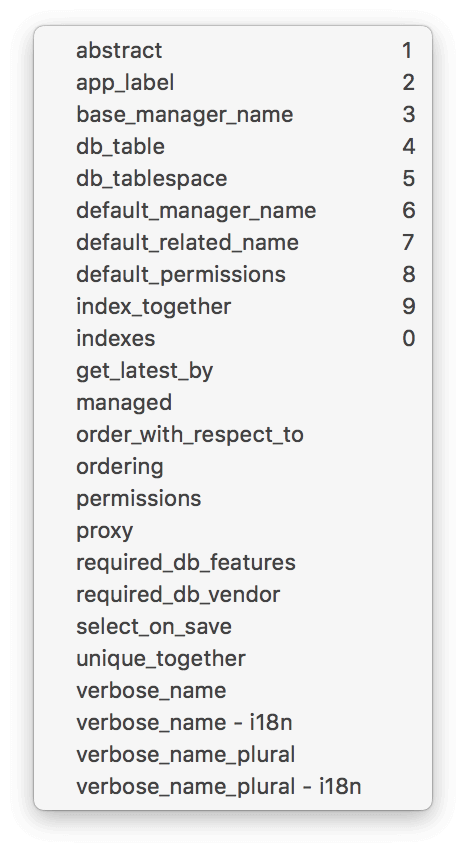
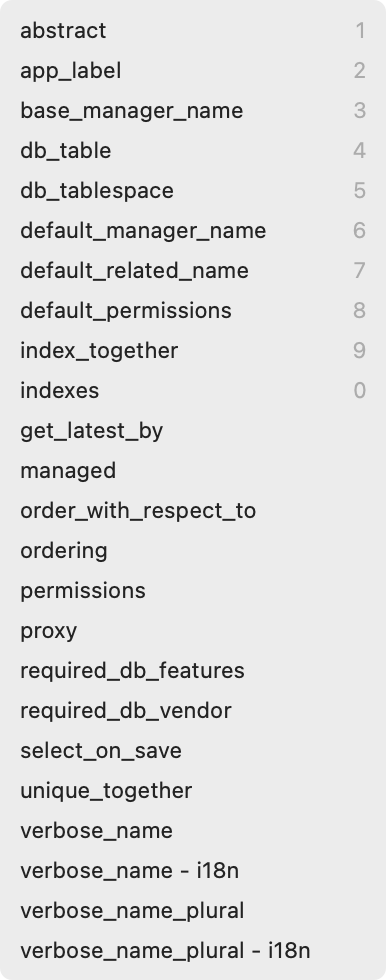
update screenshots, improve documentation

Changed region(s): [[0.0311, 0.0, 0.9016, 1.0], [0.8705, 0.0305, 0.9637, 0.4272]]

diff --git a/README.md b/README.md
@@ -14,7 +14,8 @@ git clone https://github.com/vigo/textmate2-power-tools.git PowerTools.tmbundle
 # Restart your TextMate2
 ```
 
-You need to install extra tools for **Golang** helper:
+You need to install extra tools for **Golang** helper. You need to enable
+default **Go Bundle** from TextMate first...
 
 ```bash
 $ go install golang.org/x/tools/cmd/goimports@latest
@@ -25,6 +26,12 @@ $ go install golang.org/x/tools/go/analysis/passes/shadow/cmd/shadow@latest
 $ go install honnef.co/go/tools/cmd/staticcheck@latest
 
 $ brew install golangci-lint
+```
+
+Shellcheck feature requires `shellcheck` binary;
+
+```bash
+$ brew install shellcheck
 ```
 
 You need to add your **brew/bin** path to `PATH` variable too:
@@ -56,7 +63,32 @@ Other bundle dependencies (*not required but nice to have*)
 
 ## Available Items
 
+1. [TextMate](#textMate-helpers)
+1. [Django](#django)
+1. [Python](#python)
+1. [Ruby](#ruby)
+1. [Rake](#rake)
+1. [Bash](#bash)
+1. [Markdown](#markdown)
+1. [jQuery](#jquery)
+1. [HTML](#html)
+1. [Javascript](#javascript)
+1. [Go](#go)
+1. [Swift](#swift)
+1. [Lisp](#lisp)
+1. [Elixir](#elixir)
+1. [Git](#git)
+1. [General](#general)
+1. [Templates](#templates)
+
+---
+
 ### TextMate Helpers
+
+Scopes:
+
+- `text.xml.plist`
+- `source.tm-properties`
 
 - `folder` + <kbd>⇥</kbd> : Add folder for `info.plist`
 - `-` + <kbd>⇥</kbd> : Add delimeter for `info.plist`
@@ -66,6 +98,8 @@ Other bundle dependencies (*not required but nice to have*)
    - spelling: `spellingLanguage`
 - "Show Environment Variables" for better, sorted and grouped env-var list
 
+---
+
 ### Django
 
 **Update**
@@ -73,25 +107,27 @@ Other bundle dependencies (*not required but nice to have*)
 - Improve Django snippets/helpers
 - Add Django REST generics and viewsets
 
-#### Snippets
+#### Django Snippets
 
-TAB completion | Description
----------------|:-----------
-`admin` + <kbd>⇥</kbd> | ![Screenshot of: admin](Screens/django-admin.png?2 "admin+TAB")
-`model` + <kbd>⇥</kbd> | ![Screenshot of: model](Screens/django-model.png?2 "model+TAB")
-`fld` + <kbd>⇥</kbd> (*For fields...*) | ![Screenshot of: fld](Screens/django-fld.png?2 "fld+TAB")
-`opt` + <kbd>⇥</kbd> (*For field options...*) | ![Screenshot of: opt](Screens/django-opt.png?2 "opt+TAB")
-`meta` + <kbd>⇥</kbd> (*Model meta options*) |   ![Screenshot of: opt](Screens/django-model-meta.png?2 "meta+TAB")
-`hlp` + <kbd>⇥</kbd> (*Helpers*) | ![Screenshot of: hlp](Screens/django-hlp.png?2 "hlp+TAB")
-`mstr` + <kbd>⇥</kbd> | Injects `def __str__(self):`
-`msave` + <kbd>⇥</kbd> | Injects model save `def save(self, *args, **kwargs):`
-`does` + <kbd>⇥</kbd> | `Model.DoesNotExist`
-`wr` + <kbd>⇥</kbd> (*Management commands*) | `self.stdout.write`
-`ws` + <kbd>⇥</kbd> (*Management commands*) | `self.style`
-`=` + <kbd>⇥</kbd> (*Template*) | `{{ variable }}`
-`==` + <kbd>⇥</kbd> (*Template*) | `{% tag %}`
+| TAB completion | Description |
+|----------------|:------------|
+| `admin` + <kbd>⇥</kbd> | ![Screenshot of: admin](Screens/django-admin-1.png?1 "admin+TAB") |
+| `admin` + <kbd>⇥</kbd> | ![Screenshot of: admin](Screens/django-admin-2.png?1 "admin+TAB") |
+| `model` + <kbd>⇥</kbd> | ![Screenshot of: model](Screens/django-model.png?1 "model+TAB") |
+| `meta` + <kbd>⇥</kbd> (*Model meta options*) |   ![Screenshot of: opt](Screens/django-model-meta.png?1 "meta+TAB") |
+| `fld` + <kbd>⇥</kbd> (*For fields...*) | ![Screenshot of: fld](Screens/django-fld.png?1 "fld+TAB") |
+| `opt` + <kbd>⇥</kbd> (*For field options...*) | ![Screenshot of: opt](Screens/django-opt.png?2 "opt+TAB") |
+| `hlp` + <kbd>⇥</kbd> (*Helpers*) | ![Screenshot of: hlp](Screens/django-hlp.png?2 "hlp+TAB") |
+| `str` + <kbd>⇥</kbd> | Injects `def __str__(self):` |
+| `save` + <kbd>⇥</kbd> | Injects model save `def save(self, *args, **kwargs):` |
+| `does` + <kbd>⇥</kbd> | `Model.DoesNotExist` |
+| `wr` + <kbd>⇥</kbd> (*Management commands*) | `self.stdout.write` |
+| `ws` + <kbd>⇥</kbd> (*Management commands*) | `self.style` |
+| `=` + <kbd>⇥</kbd> (*Template*) | `{{ variable }}` |
+| `==` + <kbd>⇥</kbd> (*Template*) | `{% tag %}` |
+| `ase` + <kbd>⇥</kbd> (*Test*) | `self.assertQuerysetEqual` |
 
-#### Scope
+#### Django Scope
 
 You have a scope called: **Python Django (Extended)**.
 Press <kbd>⌃</kbd> + <kbd>⌥</kbd> + <kbd>⇧</kbd> + <kbd>P</kbd> for selecting
@@ -104,26 +140,31 @@ this scope.
 You can prettify any kind of Python `list` or `dict` via <kbd>⌥</kbd> +
 <kbd>⌘</kbd> + <kbd>P</kbd> in any scope!
 
-#### Snippets
+#### Python Snippets
 
-TAB completion | Description
----------------|:-----------
-`ase` + <kbd>⇥</kbd> | ![Screenshot of: ase](Screens/python-ase.png?2 "ase+TAB")
-`utf` + <kbd>⇥</kbd> | `# -*- coding: utf-8 -*-`
-`p` + <kbd>⇥</kbd> | Print with format: `print(CURSOR.format())`
-`pp` + <kbd>⇥</kbd> | `pp = pprint.PrettyPrinter(indent=4)`
-`pr` + <kbd>⇥</kbd> | Pretty Print with format: `pp.pprint(CURSOR.format())`
-`tern` + <kbd>⇥</kbd> | Ternary expression helper
-`pdbg` + <kbd>⇥</kbd> | Injects Python Debuffer
-`ipdbg` + <kbd>⇥</kbd> | Injects IPython Debuffer
-`logger` + <kbd>⇥</kbd> | Injects `logger` snippet
-`loggerbc` + <kbd>⇥</kbd> | Injects `logger` snippet with basic config
-<kbd>⌃</kbd> + <kbd>'</kbd> | Docstring
-`init` + <kbd>⇥</kbd> (*Class*) | Injects `def __init__ ...`
-`@sm` + <kbd>⇥</kbd> (*Class*) | Injects `@staticmethod`
-`@cm` + <kbd>⇥</kbd> (*Class*) | Injects `@classmethod`
-`@pr` + <kbd>⇥</kbd> (*Class*) | Injects `@property`
-`__` + <kbd>⇥</kbd> (*Class*) | Injects `__str__` or `__repr__`
+| TAB completion | Description |
+|----------------|:------------|
+| `ase` + <kbd>⇥</kbd> | ![Screenshot of: ase](Screens/python-ase.png?1 "ase+TAB") |
+| `utf` + <kbd>⇥</kbd> | `# -*- coding: utf-8 -*-` |
+| `p` + <kbd>⇥</kbd> | Print with format: `print(CURSOR.format())` |
+| `pp` + <kbd>⇥</kbd> | `pp = pprint.PrettyPrinter(indent=4)` |
+| `pr` + <kbd>⇥</kbd> | Pretty Print with format: `pp.pprint(CURSOR.format())` |
+| `tern` + <kbd>⇥</kbd> | Ternary expression helper |
+| `pdbg` + <kbd>⇥</kbd> | Injects Python Debuffer |
+| `ipdbg` + <kbd>⇥</kbd> | Injects IPython Debuffer |
+| `logger` + <kbd>⇥</kbd> | Injects `logger` snippet |
+| `loggerbc` + <kbd>⇥</kbd> | Injects `logger` snippet with basic config |
+| <kbd>⌃</kbd> + <kbd>'</kbd> | Docstring |
+| `init` + <kbd>⇥</kbd> (*Class*) | Injects `def __init__ ...` |
+| `@sm` + <kbd>⇥</kbd> (*Class*) | Injects `@staticmethod` |
+| `@cm` + <kbd>⇥</kbd> (*Class*) | Injects `@classmethod` |
+| `@pr` + <kbd>⇥</kbd> (*Class*) | Injects `@property` |
+| `__` + <kbd>⇥</kbd> (*Class*) | Injects `__str__` or `__repr__` |
+| `imp` + <kbd>⇥</kbd> (*import*) | Injects `import` with some predefined package names |
+| `inject` + <kbd>⇥</kbd> (*apped*) | Injects `TM_PYTHON_FMT_VIRTUAL_ENV` related appends to `sys.path` |
+| `=` + <kbd>⇥</kbd> (*python*) | Injects python placeholder `{}` |
+| `.` + <kbd>⇥</kbd> (*doctest*) | Injects `>>> ` |
+| <kbd>⇧</kbd> + <kbd>⌘</kbd> + <kbd>i</kbd> | Create `__init__.py` |
 
 `hlp` + <kbd>⇥</kbd>
 
@@ -138,19 +179,21 @@ TAB completion | Description
 
 You need to add **Ruby on Rails** bundle from Preferences/Bundles.
 
-### Snippets for ERB
+### Ruby Snippets for ERB
 
-TAB completion | Description
----------------|:-----------
-`=` + <kbd>⇥</kbd> | `<%= CURSOR %>`
-`if` + <kbd>⇥</kbd> | ERB compatible `if`
-`each` + <kbd>⇥</kbd> | ERB compatible `each` and `each_with_index`
+Scope: `text.html.erb`
+
+| TAB completion | Description |
+|---------------|:-------------|
+| `=` + <kbd>⇥</kbd> | `<%= CURSOR %>` |
+| `if` + <kbd>⇥</kbd> | ERB compatible `if` |
+| `each` + <kbd>⇥</kbd> | ERB compatible `each` and `each_with_index` |
 
 ---
 
 ## Rake
 
-### Snippets
+### Rake Snippets
 
 `tas` + <kbd>⇥</kbd>
 
@@ -162,6 +205,7 @@ TAB completion | Description
 * `tasd` + <kbd>⇥</kbd>: Creates default task code
 * `inv` + <kbd>⇥</kbd>: Creates `Rake::Task...invoke` + params
 * `des` + <kbd>⇥</kbd>: `desc "...."` only
+* `args` + <kbd>⇥</kbd>: `args.with_defaults(...)`
 
 ---
 
@@ -188,7 +232,7 @@ defaults write com.macromates.textmate environmentVariables -array-add \
 
 You need to restart TextMate after these settings...
 
-### Snippets
+### Bash Snippets
 
 * `if` + <kbd>⇥</kbd>: `if` / `else` / `elif` template.
 * `for` + <kbd>⇥</kbd>: Array iteration template
@@ -199,7 +243,7 @@ You need to restart TextMate after these settings...
 
 ### Markdown
 
-### Snippets
+### Markdown Snippets
 
 * `badge` + <kbd>⇥</kbd>: Adds **img.shields.io** badge!
 * <kbd>⌥</kbd> + <kbd>(</kbd>: Fixes Parenthesis behavior. 
@@ -208,7 +252,7 @@ You need to restart TextMate after these settings...
 
 ### jQuery
 
-### Snippets
+### jQuery Snippets
 
 * `each` + <kbd>⇥</kbd>: jQuery `each` code template
 * `ready` + <kbd>⇥</kbd>: jQuery `$(document).ready()` code template
@@ -218,10 +262,11 @@ You need to restart TextMate after these settings...
 
 ## HTML
 
-### Snippets
+### HTML Snippets
 
 * `more` + <kbd>⇥</kbd>: `&rsquo;`
 * <kbd>⌃</kbd> + <kbd>⌘</kbd> + <kbd>S</kbd>: Wrap selection with smart quotes.
+* <kbd>⌃</kbd> + <kbd>C</kbd>: Wrap/unwrap code Inline
 * `p` + <kbd>⇥</kbd>: `<p>carret<p>`
 * `li` + <kbd>⇥</kbd>: `<li>carret<li>`
 
@@ -229,16 +274,17 @@ You need to restart TextMate after these settings...
 
 ### Javascript
 
-### Snippets
+### Javascript Snippets
 
 * `con` + <kbd>⇥</kbd>: Generates `console.log`, `console.dir`,
-  `console.warn`, `console.error` skel
+  `console.warn`, `console.error`, `console.group`, `console.groupEnd` skel
 * `if` + <kbd>⇥</kbd>: `if` related code.
 * `fun` + <kbd>⇥</kbd>: `function` related code.
 * `for` + <kbd>⇥</kbd>: `for` related code.
 * `swi` + <kbd>⇥</kbd>: `switch` related code.
+* `load` + <kbd>⇥</kbd>: Injects `window.addEventListener(...)`
 
-### Commands
+### Javascript Commands
 
 You need to install `node` locally and must define `TM_NODE` variable and set
 the executable path for node:
@@ -283,11 +329,11 @@ You can disable linters piece by piece;
 - `TM_DISABLE_GOLANGCI_LINT`
 - `TM_DISABLE_STATIC_CHECK`
 
-### Commands
+### Go Commands
 
 * <kbd>⌥</kbd> + <kbd>R</kbd> : Runs `gofmt` + `goimports` without save!
 
-### Snippets
+### Go Snippets
 
 * `fmt` + <kbd>⇥</kbd>: `fmt.METHOD`
 * `spr` + <kbd>⇥</kbd>: `fmt.Sprintf`
@@ -362,7 +408,7 @@ root:
 You need to install/activate **Swift Bundle** from: TextMate > Preferences >
 Bundles.
 
-### Snippets
+### Swift Snippets
 
 * `p` + <kbd>⇥</kbd>: Print statement
 * `typ` + <kbd>⇥</kbd>: Type of object
@@ -383,11 +429,11 @@ defaults write com.macromates.textmate environmentVariables -array-add \
     '{enabled = 1; value = "/usr/local/bin/clisp"; name = "TM_CLISP"; }'
 ```
 
-### Snippets
+### Lisp Snippets
 
 * `p` + <kbd>⇥</kbd>: Print
 
-### Commands
+### Lisp Commands
 
 * <kbd>⌘</kbd> + <kbd>R</kbd>: Run. 
 
@@ -402,7 +448,7 @@ cd ~/Library/Application\ Support/TextMate/Bundles/
 git clone https://github.com/elixir-lang/elixir-tmbundle.git Elixir.tmbundle
 ```
 
-### Snippets
+### Elixir Snippets
 
 * `p` + <kbd>⇥</kbd>: Print or Inspect
 * `#`: Select text in quotes then press `#` (*Ruby’s string interpolation-ish*)
@@ -420,31 +466,31 @@ Press <kbd>⌥</kbd> + <kbd>⌘</kbd> + <kbd>B</kbd> for;
 
 ## General
 
-TAB completion | Description
----------------|:-----------
-`dateT` + <kbd>⇥</kbd> | ![Screenshot of: dateT](Screens/general-datet.png?1 "dateT+TAB")
-`lorem` + <kbd>⇥</kbd> | ![Screenshot of: lorem](Screens/general-lorem.png?1 "lorem+TAB")
-<kbd>⌥</kbd> + <kbd>'</kbd> | Single smart apostrophe. (*Works in html, text, markdown, yaml*)
-`applek` + <kbd>⇥</kbd> | Generate apple symbols like: ⌘ ⎋ more...
-`applek` + <kbd>⇥</kbd> | Generate apple symbols inside of `<kbd>` tags.
-`--` + <kbd>⇥</kbd> | Line delimeter, 80 charts comment `# ---- ...`
-`---` + <kbd>⇥</kbd> | Dynamic tilda. Fills remaning line with `~`
-<kbd>⌥</kbd> + <kbd>⌘</kbd> + `B` | Shows `git blame` for current line
+| TAB completion | Description |
+|----------------|:------------|
+| `dateT` + <kbd>⇥</kbd> | ![Screenshot of: dateT](Screens/general-datet.png?1 "dateT+TAB") |
+| `lorem` + <kbd>⇥</kbd> | ![Screenshot of: lorem](Screens/general-lorem.png?1 "lorem+TAB") |
+| <kbd>⌥</kbd> + <kbd>'</kbd> | Single smart apostrophe. (*Works in html, text, markdown, yaml*) |
+| `applek` + <kbd>⇥</kbd> | Generate apple symbols like: ⌘ ⎋ more... |
+| `applek` + <kbd>⇥</kbd> | Generate apple symbols inside of `<kbd>` tags. |
+| `--` + <kbd>⇥</kbd> | Line delimeter, 80 charts comment `# ---- ...` |
+| `---` + <kbd>⇥</kbd> | Dynamic tilda. Fills remaning line with `~` |
+| <kbd>⌥</kbd> + <kbd>⌘</kbd> + `B` | Shows `git blame` for current line |
 
 ---
 
 ## Templates
 
-Language      | Scope                 | TAB Completion
-:-------------|:----------------------|:--------------------------------
-BASH          | source.shell          | `temp` + <kbd>⇥</kbd>
-Python        | source.python         | `temp` + <kbd>⇥</kbd>
-Python        | source.python         | `temp` + <kbd>⇥</kbd> with Doctests
-Python        | source.python         | `temp` + <kbd>⇥</kbd> with Logging
-Golang        | source.go             | `temp` + <kbd>⇥</kbd>
-HTML          | -no scope required-   | `html5` + <kbd>⇥</kbd>
-HTML with Bulma | -no scope required-   | `html5` + <kbd>⇥</kbd> with Bulma.io CSS
-Vue Component | text.html.vue         | `temp` + <kbd>⇥</kbd>
+| Language        | Scope                 | TAB Completion                  |
+|:----------------|:----------------------|:--------------------------------|
+| BASH            | source.shell          | `temp` + <kbd>⇥</kbd> |
+| Python          | source.python         | `temp` + <kbd>⇥</kbd> |
+| Python          | source.python         | `temp` + <kbd>⇥</kbd> with Doctests |
+| Python          | source.python         | `temp` + <kbd>⇥</kbd> with Logging |
+| Golang          | source.go             | `temp` + <kbd>⇥</kbd> |
+| HTML            | -no scope required-   | `html5` + <kbd>⇥</kbd> |
+| HTML with Bulma | -no scope required-   | `html5` + <kbd>⇥</kbd> with Bulma.io CSS |
+| Vue Component   | text.html.vue         | `temp` + <kbd>⇥</kbd> |
 
 ---
 
